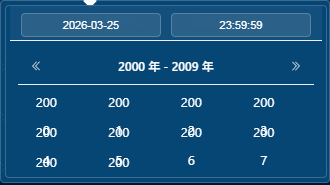
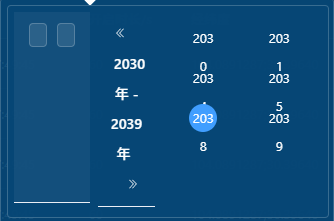
fix: 还原 DateTimePicker 日期选择器样式到最小调整版本
- 移除所有导致布局混乱的自定义样式
- 仅保留面板内边距 (padding: 8px)
- 仅保留年月单元格字体大小 (font-size: 12px)
- 恢复 Element Plus 默认布局逻辑

diff --git a/frontend/src/components/DateTimePicker.vue b/frontend/src/components/DateTimePicker.vue
@@ -125,173 +125,16 @@ const handleEndChange = (value: string) => {
 }
 </style>
 
-<!-- 全局样式覆盖日期选择器面板 -->
+<!-- 全局样式覆盖日期选择器面板 - 仅做最小调整 -->
 <style>
-/* 自定义日期选择器面板样式 - 确保整体宽度足够 */
+/* 自定义日期选择器面板样式 */
 .custom-date-picker {
-  padding: 6px !important;
-  min-width: 320px !important;
-  max-width: 350px !important;
+  padding: 8px !important;
 }
 
-/* 面板主体 - datetime类型会有日期和时间两列 */
-.custom-date-picker.el-picker-panel {
-  min-width: 320px !important;
-}
-
-.custom-date-picker .el-picker-panel__body-wrapper {
-  min-width: 100% !important;
-}
-
-.custom-date-picker .el-picker-panel__body {
-  padding: 6px !important;
-  display: flex !important;
-  flex-direction: row !important;
-  min-width: 100% !important;
-}
-
-/* 日期面板 */
-.custom-date-picker .el-picker-panel__content {
-  margin: 0 !important;
-  padding: 0 !important;
-  width: auto !important;
-  min-width: 230px !important;
-  float: none !important;
-}
-
-/* 日期内容区域 */
-.custom-date-picker .el-date-picker__content {
-  padding: 4px !important;
-  margin: 0 !important;
-  width: 230px !important;
-  box-sizing: border-box !important;
-  float: none !important;
-}
-
-/* 日期面板头部 - 年月选择行 */
-.custom-date-picker .el-date-picker__header {
-  padding: 6px 10px !important;
-  margin-bottom: 4px !important;
-  margin-top: 0 !important;
-  height: auto !important;
-}
-
-/* 头部按钮 */
-.custom-date-picker .el-date-picker__header-btn {
-  font-size: 13px !important;
-}
-
-/* 头部标题 */
-.custom-date-picker .el-date-picker__header-label {
-  font-size: 14px !important;
-  padding: 0 6px !important;
-  line-height: 1.5 !important;
-}
-
-/* 星期行 */
-.custom-date-picker .el-date-table th {
-  padding: 2px 0 !important;
-  font-size: 12px !important;
-  line-height: 1.4 !important;
-}
-
-/* 日期单元格 */
-.custom-date-picker .el-date-table td {
-  padding: 1px !important;
-}
-
-.custom-date-picker .el-date-table td .el-date-table-cell {
-  height: 24px !important;
-  width: 24px !important;
-  line-height: 24px !important;
-}
-
-.custom-date-picker .el-date-table td .el-date-table-cell__text {
-  font-size: 12px !important;
-  height: 22px !important;
-  width: 22px !important;
-  line-height: 22px !important;
-}
-
-/* 时间选择器头部 */
-.custom-date-picker .el-date-picker__time-header {
-  padding: 6px 10px !important;
-  border-bottom: 1px solid #ebeef5 !important;
-}
-
-.custom-date-picker .el-date-picker__editor-wrap {
-  width: auto !important;
-}
-
-.custom-date-picker .el-date-picker__editor-wrap .el-input__wrapper {
-  padding: 0 8px !important;
-}
-
-.custom-date-picker .el-date-picker__editor-wrap .el-input__inner {
-  font-size: 12px !important;
-}
-
-/* 时间面板侧边栏 */
-.custom-date-picker .el-picker-panel__sidebar {
-  width: 90px !important;
-  padding: 6px !important;
-  border-left: 1px solid #ebeef5 !important;
-}
-
-.custom-date-picker .el-picker-panel__shortcut {
-  font-size: 12px !important;
-  padding: 4px 8px !important;
-}
-
-/* 时间面板 */
-.custom-date-picker .el-time-panel {
-  width: 100px !important;
-}
-
-.custom-date-picker .el-time-panel__content {
-  padding: 4px !important;
-}
-
-.custom-date-picker .el-time-spinner__item {
-  font-size: 12px !important;
-  height: 24px !important;
-  line-height: 24px !important;
-}
-
-/* 底部按钮 */
-.custom-date-picker .el-picker-panel__footer {
-  padding: 6px 10px !important;
-  border-top: 1px solid #ebeef5 !important;
-}
-
-.custom-date-picker .el-picker-panel__link-btn {
-  padding: 4px 10px !important;
-  font-size: 12px !important;
-}
-
-/* 年月选择面板 - 确保正确布局 */
-.custom-date-picker .el-month-table,
-.custom-date-picker .el-year-table {
-  width: 100% !important;
-  margin: 4px 0 !important;
-  border-collapse: separate !important;
-  border-spacing: 4px !important;
-  table-layout: fixed !important;
-}
-
-.custom-date-picker .el-month-table td,
-.custom-date-picker .el-year-table td {
-  text-align: center !important;
-  padding: 4px 2px !important;
-  cursor: pointer !important;
-}
-
+/* 年月选择面板 - 仅调整字体大小 */
 .custom-date-picker .el-month-table td .cell,
 .custom-date-picker .el-year-table td .cell {
   font-size: 12px !important;
-  display: block !important;
-  text-align: center !important;
-  line-height: 1.6 !important;
-  width: 100% !important;
 }
 </style>
